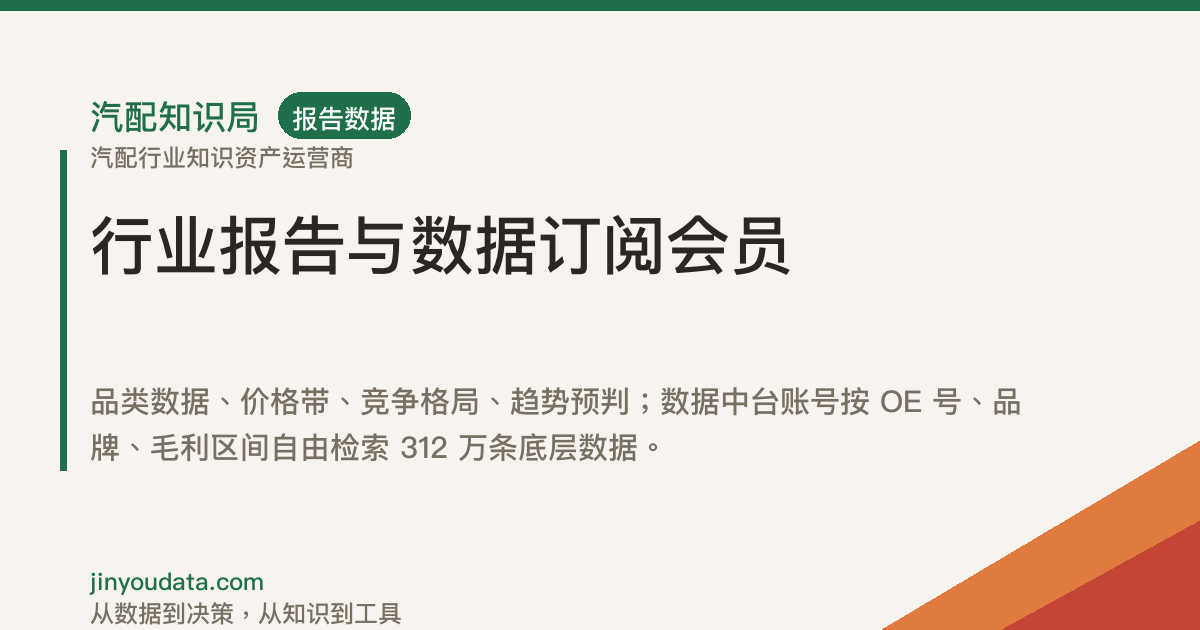
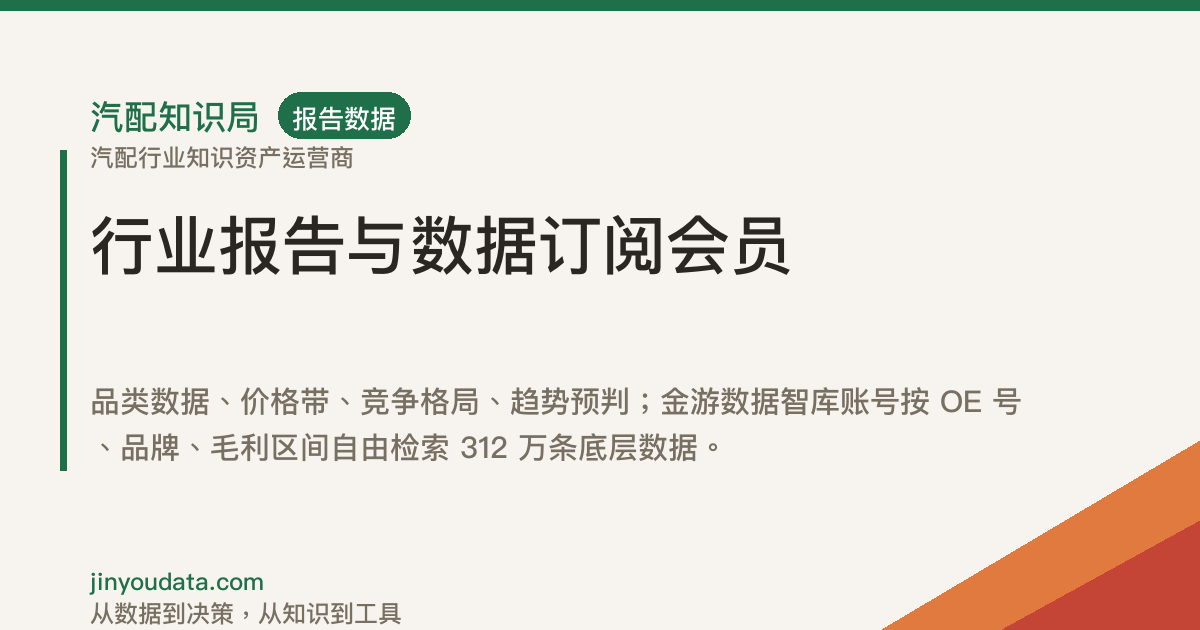
品牌升维：数据中台/中控台全面替换为金游数据智库；999 产品改名金游智库·专属查询账号；首页看板改金游智库·底层大盘洞察；新增 0009 库内改名迁移

Changed region(s): [[0.0617, 0.6635, 0.5858, 0.754], [0.555, 0.6032, 0.8633, 0.6635]]

diff --git a/app/reports/page.tsx b/app/reports/page.tsx
@@ -15,7 +15,7 @@ import { getProducts } from "@/lib/data";
 
 export const metadata: Metadata = buildMetadata({
   title: "报告与数据产品",
-  description: "行业报告（品类数据、价格带、竞争格局、趋势预判，¥9.9 引流）与数据库会员（金游™数据中台 Client 只读账号，312 万 SKU 无限次查询，¥999 / 年）。",
+  description: "行业报告（品类数据、价格带、竞争格局、趋势预判，¥9.9 引流）与数据库会员（金游智库·专属查询账号，Client 只读，312 万 SKU 无限次查询，¥999 / 年）。",
   path: "/reports",
   keywords: [KEYWORDS.data, KEYWORDS.nev, KEYWORDS.compliance, KEYWORDS.oe],
 });
@@ -73,14 +73,14 @@ export default async function ReportsPage() {
       <PageHero
         tag="REPORTS & DATA"
         title="决策要有依据，别再用拍脑袋交学费"
-        desc="报告给结论与动作，数据中台账号给持续查数的能力。摘要免费看，账号开通即查 312 万条底层数据。"
+        desc="报告给结论与动作，金游数据智库账号给持续查数的能力。摘要免费看，账号开通即查 312 万条底层数据。"
       >
         <div className="flex flex-wrap gap-3">
           <Button asChild variant="destructive">
             <Link href="/contact">免费领报告摘要</Link>
           </Button>
           <Button asChild variant="outline">
-            <Link href="/contact">开通数据中台账号</Link>
+            <Link href="/contact">开通金游智库账号</Link>
           </Button>
         </div>
       </PageHero>
@@ -120,7 +120,7 @@ export default async function ReportsPage() {
 
       <section className="section-pad bg-brand-cream">
         <div className="container-site">
-          <SectionHeading tag="数据库" title="312 万 SKU，随你查" desc="金游™数据中台 Client 只读账号，一人一号，按 OE 号、品牌、毛利区间自由检索，看透真实利润。" />
+          <SectionHeading tag="数据库" title="312 万 SKU，随你查" desc="金游智库·专属查询账号，Client 只读，一人一号，按 OE 号、品牌、毛利区间自由检索，看透真实利润。" />
           <div className="grid gap-4 md:grid-cols-3">
             {DATA_FEATURES.map((f) => (
               <Card key={f.title}>
@@ -139,7 +139,7 @@ export default async function ReportsPage() {
           {sub && (
             <div className="mx-auto mt-6 flex max-w-2xl flex-col items-center gap-3 rounded-xl border bg-card p-5 sm:flex-row sm:justify-between">
               <div>
-                <p className="font-semibold">金游™ 数据中台账号 · ¥999 / 年</p>
+                <p className="font-semibold">金游智库·专属查询账号 · ¥999 / 年</p>
                 <p className="text-xs text-muted-foreground">312 万条底层数据无限次查询，只给工具，不讲废话。</p>
               </div>
               <ProductCta product={sub} />
@@ -161,7 +161,7 @@ export default async function ReportsPage() {
           </div>
           <p className="mt-6 flex items-center justify-center gap-1.5 text-xs text-muted-foreground">
             <ExternalLink className="h-3.5 w-3.5" />
-            报告由主理人在企业微信一对一交付，数据在数据中台内查询；官网不处理支付。
+            报告由主理人在企业微信一对一交付，数据在金游数据智库内查询；官网不处理支付。
           </p>
         </div>
       </section>

diff --git a/app/content/page.tsx b/app/content/page.tsx
@@ -48,7 +48,7 @@ const CASES = [
     pain:
       "车灯适配表靠人工比对，同一车型在不同平台标注不一致，发货后大量因「装不上」退回，客服和运费两头赔。",
     solution:
-      "接入数据中控台的适配关系库，对 312 万条底层 SKU 的 OE 号、车型年款与适配关系做三层校验，在上架前把错配 SKU 直接筛掉。",
+      "接入金游数据智库的适配关系库，对 312 万条底层 SKU 的 OE 号、车型年款与适配关系做三层校验，在上架前把错配 SKU 直接筛掉。",
     results: [
       { value: "-18%", label: "退货率" },
       { value: "-42%", label: "适配纠纷" },
@@ -63,7 +63,7 @@ const CASES = [
     pain:
       "按人民币售价直接折算定价，汇率、平台佣金、退货损耗都没算进去，看着天天出单，实际一直在贴钱。",
     solution:
-      "用数据中控台的黄金毛利区间表逐 SKU 重算全成本，对照 161.8 万+ 去重商品的价格带，砍掉 40% 毛利线以下的高退货款。",
+      "用金游数据智库的黄金毛利区间表逐 SKU 重算全成本，对照 161.8 万+ 去重商品的价格带，砍掉 40% 毛利线以下的高退货款。",
     results: [
       { value: "+12%", label: "毛利率" },
       { value: "-37%", label: "在售 SKU 数" },
@@ -78,7 +78,7 @@ const CASES = [
     pain:
       "选品靠跟爆款，上新一批压一批，滞销库存占着现金，也说不清下一个该往哪个细分品类加。",
     solution:
-      "调取数据中控台的细分品类价格带与竞争格局，对 200+ 细分品类做机会打分，按可回溯的口径重排上新优先级。",
+      "调取金游数据智库的细分品类价格带与竞争格局，对 200+ 细分品类做机会打分，按可回溯的口径重排上新优先级。",
     results: [
       { value: "×2.3", label: "测款通过率" },
       { value: "-29%", label: "滞销库存占比" },
@@ -130,7 +130,7 @@ export default function ContentPage() {
           <SectionHeading
             tag="已交付案例"
             title="三个已经跑通的场景"
-            desc="客户身份、遇到的问题、调用了中控台的哪部分数据、最后落到什么数字，都在下面。"
+            desc="客户身份、遇到的问题、调用了金游数据智库的哪部分数据、最后落到什么数字，都在下面。"
           />
           <div className="grid gap-5 lg:grid-cols-3">
             {CASES.map((c) => (

diff --git a/app/api/ai/route.ts b/app/api/ai/route.ts
@@ -16,7 +16,7 @@ const BodySchema = z.object({
     .max(20),
 });
 
-const SYSTEM_PROMPT = `你是「汽配知识局」官网的 AI 助手。汽配知识局是汽配行业知识资产运营商，服务分三库：知识库（避坑指南、行业报告、合规 SOP，免费或 ¥9.9 引流）、工具库（选品评分表、核价毛利计算器、库存周转模板，¥99–299）、数据库（金游™ 数据中台账号，¥999/年，312 万 SKU、OE 号匹配、万家供货商评级）。另有定制咨询、SaaS 与 AI 数据标注/模型训练合作。核心卖点是数据库账号。
+const SYSTEM_PROMPT = `你是「汽配知识局」官网的 AI 助手。汽配知识局是汽配行业知识资产运营商，服务分三库：知识库（避坑指南、行业报告、合规 SOP，免费或 ¥9.9 引流）、工具库（选品评分表、核价毛利计算器、库存周转模板，¥99–299）、数据库（金游智库·专属查询账号，¥999/年，312 万 SKU、OE 号匹配、万家供货商评级）。另有定制咨询、SaaS 与 AI 数据标注/模型训练合作。核心卖点是数据库账号。
 
 你的职责：
 1. 用中文回答汽配行业相关问题，专业、直接、给具体动作，不说空话。
@@ -33,7 +33,7 @@ function fallbackReply(lastUserMessage: string): string {
     return "免费资料（SOP 清单、报告摘要、模板库）都由主理人一对一发送，扫码添加企业微信、备注「官网」即可领取。";
   }
   if (/价格|收费|多少钱|费用/.test(t)) {
-    return "三库：知识库免费或 ¥9.9 引流，工具库 ¥99–299，数据库 ¥999/年（312 万 SKU、OE 号匹配、万家供货商评级，开通中控台账号）。定制咨询 ¥30,000 起/项目。具体看 /products。";
+    return "三库：知识库免费或 ¥9.9 引流，工具库 ¥99–299，数据库 ¥999/年（312 万 SKU、OE 号匹配、万家供货商评级，开通金游数据智库账号）。定制咨询 ¥30,000 起/项目。具体看 /products。";
   }
   if (/合作|AI|标注|语料|评测|SaaS/.test(t)) {
     return "AI 数据合作（语料授权、标注规则、评测标准共建）和 SaaS 合作在 /partners，签 DPA 后启动。可以先在 /contact 提交意向。";

diff --git a/app/about/page.tsx b/app/about/page.tsx
@@ -44,7 +44,7 @@ const MILESTONES = [
   { time: "起点", text: "从自营汽配业务起步，做跨境与国内多平台，攒下第一手数据与踩坑记录。" },
   { time: "沉淀", text: "把内部用的名词表、适配库、SOP 整理成册，先给自己的团队用。" },
   { time: "外溢", text: "同行来要，才开始对外。内容都公开写出来，用内容换信任，不靠买广告。" },
-  { time: "资产化", text: "把知识分成四层：免费清单先解决小问题，数据中台账号与完整报告再往深处走，咨询与数据合作做长期交付。" },
+  { time: "资产化", text: "把知识分成四层：免费清单先解决小问题，金游数据智库账号与完整报告再往深处走，咨询与数据合作做长期交付。" },
   { time: "现在", text: "知识库 12,000+ 条目，服务 1,800+ 从业者，开始与 AI 公司做语料与评测合作。" },
 ];
 
@@ -81,7 +81,7 @@ export default function AboutPage() {
               <p className="mt-3 text-sm leading-relaxed text-foreground/85">
                 做四件事：把一线经验整理成<strong>知识库与 SOP</strong>；把真实交易数据处理成
                 <strong>报告与数据产品</strong>；把 312 万条底层数据做成
-                <strong>可查询的数据中台</strong>；对具体问题给
+                <strong>可查询的金游数据智库</strong>；对具体问题给
                 <strong>定制咨询</strong>，对行业伙伴开放
                 <strong>SaaS 与 AI 数据合作</strong>。
               </p>

diff --git a/components/site/library-sections.tsx b/components/site/library-sections.tsx
@@ -146,11 +146,11 @@ export function LibrarySections({ products }: { products: Product[] }) {
                     <div className="flex flex-wrap items-start justify-between gap-4">
                       <div className="min-w-0">
                         <h3 className="text-lg font-bold text-foreground">
-                          {items[0]?.name ?? "金游™ 数据中台账号"}
+                          {items[0]?.name ?? "金游智库·专属查询账号"}
                         </h3>
                         <p className="mt-1 text-sm leading-relaxed text-muted-foreground">
                           {items[0]?.deliverable ??
-                            "中控台 Client 只读账号（一人一号）+ 312 万 SKU 检索 + OE 号匹配 + 万家供货商评级"}
+                            "金游智库 Client 只读账号（一人一号）+ 312 万 SKU 检索 + OE 号匹配 + 万家供货商评级"}
                         </p>
                       </div>
                       <div className="text-right">
@@ -179,7 +179,7 @@ export function LibrarySections({ products }: { products: Product[] }) {
                       ) : (
                         <WecomCtaButton
                           variant="orange"
-                          label="开通中控台账号"
+                          label="开通金游智库账号"
                           from="products-data"
                           subject="数据库"
                         />

diff --git a/app/terms/page.tsx b/app/terms/page.tsx
@@ -23,7 +23,7 @@ const SECTIONS: Section[] = [
     body: [
       "本站（汽配知识局官网）提供：行业知识、方法与数据的展示、检索引导、资料索取、咨询预约与合作接洽。",
       "本站不提供：商品销售、店铺代运营、支付结算、交易撮合。我们不从你的交易中收取任何佣金。",
-      "数据中台账号的登录与查询、知识库的查阅，分别在对应系统内完成，受相应服务条款约束。",
+      "金游数据智库账号的登录与查询、知识库的查阅，分别在对应系统内完成，受相应服务条款约束。",
     ],
   },
   {
@@ -73,7 +73,7 @@ const SECTIONS: Section[] = [
     title: "六、收费与退款",
     body: [
       "本站不处理支付。数据库账号、工具与报告的收费、发票与退款，按对应约定执行，由我们直接对接。",
-      "数据库（金游™ 数据中台账号）按年开通（¥999 / 年，具体以开通时确认为准），到期不自动续费；账号为一人一号的只读权限，不支持转借他人使用。",
+      "数据库（金游智库·专属查询账号）按年开通（¥999 / 年，具体以开通时确认为准），到期不自动续费；账号为一人一号的只读权限，不支持转借他人使用。",
       "咨询服务在正式启动前可无条件取消；已启动的项目按合同约定的阶段结算。",
     ],
   },

diff --git a/lib/data.ts b/lib/data.ts
@@ -113,11 +113,11 @@ export const FALLBACK_PRODUCTS: Product[] = [
 
   /* ================= 板块三 · 数据库（¥999 / 年 · 核心，看透真实利润） ================= */
   {
-    id: 9, slug: "data-subscription", name: "金游™ 数据中台账号", icon: "line-chart", library: "data", category: "reports",
-    positioning: "开通中控台专属账号，看透真实利润",
+    id: 9, slug: "data-subscription", name: "金游智库·专属查询账号", icon: "line-chart", library: "data", category: "reports",
+    positioning: "开通金游智库专属查询账号，看透真实利润",
     problem: "利润被错配、错价、错货源一点点吃掉，账上看着赚钱，实际在亏",
     audience: "要把利润算清楚的卖家、经销商与修理厂",
-    deliverable: "中控台 Client 只读账号（一人一号）+ 312 万 SKU 检索 + OE 号匹配 + 万家供货商评级，无限次查询",
+    deliverable: "金游智库 Client 只读账号（一人一号）+ 312 万 SKU 检索 + OE 号匹配 + 万家供货商评级，无限次查询",
     price: "¥999 / 年",
     cta_type: "buy", third_party_url: null, third_party_platform: "企业微信", planet_url: null,
   },

diff --git a/lib/persona.ts b/lib/persona.ts
@@ -42,7 +42,7 @@ export const PERSONAS: Record<PersonaKey, Persona> = {
     label: "修理厂 / 汽配商",
     need: "想解决具体业务问题 / 想系统搭建体系",
     pain: "采购乱、压资金？干货看了没体系、没方法？",
-    give: "SOP 清单 + 库存周转模板 + 数据中台账号 + 常用查询视图",
+    give: "SOP 清单 + 库存周转模板 + 金游数据智库账号 + 常用查询视图",
     recommended: [
       "sop-checklists", "toolkit-inventory", "toolkit-fitment", "templates",
       "knowledge-base", "data-subscription", "case-library",
@@ -67,7 +67,7 @@ export const PERSONAS: Record<PersonaKey, Persona> = {
     label: "汽配商 / 从业者",
     need: "想自己查数",
     pain: "干货看了一堆，轮到自己干还是没体系、没方法。",
-    give: "基础知识库 + 数据中台账号 + 常用查询视图",
+    give: "基础知识库 + 金游数据智库账号 + 常用查询视图",
     recommended: ["knowledge-base", "data-subscription", "toolkit-selection", "toolkit-pricing"],
     demand: "数据订阅",
     intent: "asset",

diff --git a/components/site/json-ld.tsx b/components/site/json-ld.tsx
@@ -34,7 +34,7 @@ export function organizationSchema() {
       addressCountry: "CN",
     },
     description:
-      "汽配行业知识资产运营商：知识库、工具库、数据库三层资产。提供避坑指南、行业报告、合规 SOP，选品评分表、核价毛利计算器、库存周转模板，以及 312 万 SKU 数据中台账号（OE 号匹配、万家供货商评级）；另做定制咨询与 AI 数据标注合作。",
+      "汽配行业知识资产运营商：知识库、工具库、数据库三层资产。提供避坑指南、行业报告、合规 SOP，选品评分表、核价毛利计算器、库存周转模板，以及 312 万 SKU 金游数据智库账号（OE 号匹配、万家供货商评级）；另做定制咨询与 AI 数据标注合作。",
     areaServed: { "@type": "Country", name: "CN" },
     knowsAbout: [
       "汽配数据",

diff --git a/app/products/page.tsx b/app/products/page.tsx
@@ -16,7 +16,7 @@ export const runtime = "edge";
 export const metadata: Metadata = buildMetadata({
   title: "服务目录",
   description:
-    "三库商业矩阵：知识库（免费 / ¥9.9 引流，构建行业认知）→ 工具库（¥99 – ¥299，现成工具直接落地）→ 数据库（¥999 / 年，开通中控台专属账号，看透真实利润）。",
+    "三库商业矩阵：知识库（免费 / ¥9.9 引流，构建行业认知）→ 工具库（¥99 – ¥299，现成工具直接落地）→ 数据库（¥999 / 年，开通金游智库专属查询账号，看透真实利润）。",
   path: "/products",
   keywords: [KEYWORDS.data, KEYWORDS.oe, KEYWORDS.vin, KEYWORDS.knowledge, KEYWORDS.sop],
 });

diff --git a/app/layout.tsx b/app/layout.tsx
@@ -18,7 +18,7 @@ export const metadata: Metadata = {
     default: `${SITE_NAME} | ${SITE_SLOGAN}`,
     template: `%s | ${SITE_NAME}`,
   },
-  description: `${SITE_SLOGAN}。${SITE_SUB}。知识库建认知、工具库做落地、数据库看利润（312 万 SKU 数据中台账号），另做定制咨询与 AI 数据合作。`,
+  description: `${SITE_SLOGAN}。${SITE_SUB}。知识库建认知、工具库做落地、数据库看利润（312 万 SKU 金游数据智库账号），另做定制咨询与 AI 数据合作。`,
   keywords: [...CORE_KEYWORDS],
   // favicon 放在 public/（app/favicon.ico 会被 Next 当成动态路由，Cloudflare 边缘构建不支持）
   icons: {

diff --git a/components/site/data-terminal.tsx b/components/site/data-terminal.tsx
@@ -29,7 +29,7 @@ export function DataTerminal() {
           <span className="h-2 w-2 rounded-full border border-[#D8D2C7]" />
           <span className="h-2 w-2 rounded-full border border-[#D8D2C7]" />
           <span className="ml-3 truncate text-[10px] tracking-wide text-[#BDB7AC]">
-            qipei://data-pipeline
+            qipei://金游数据智库
           </span>
           <span className="ml-auto flex shrink-0 items-center gap-1.5 text-[10px] font-medium tracking-widest text-brand-green">
             <span className="h-1.5 w-1.5 animate-pulse rounded-full bg-brand-green" />
